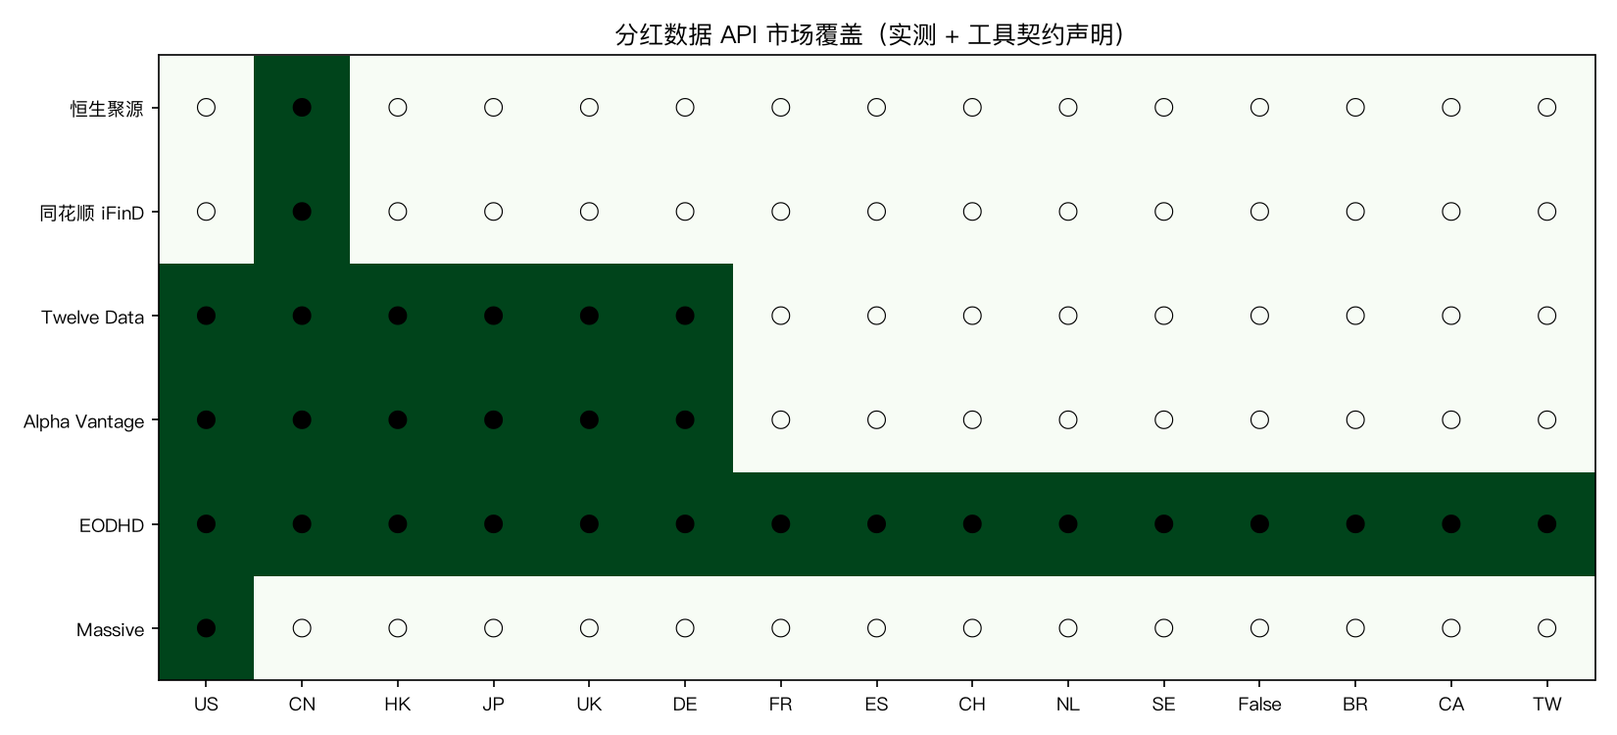
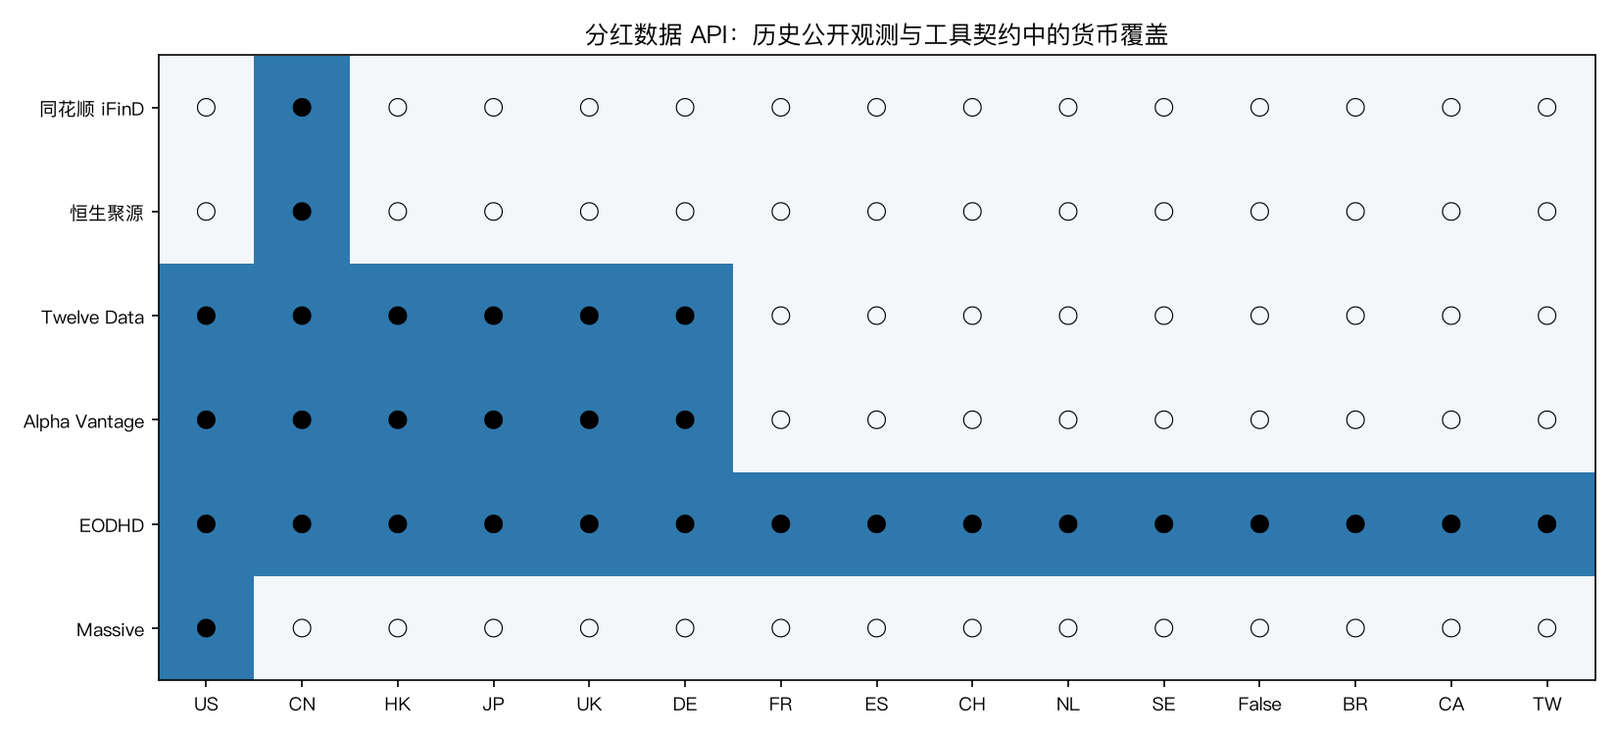
feat: rewrite dividend article with re-probed evidence
Re-run all five probes after the A-share integration and align the article,
evidence snapshot, charts, and manifests to the consistent 2026-08-10 data
set. Cost uses the success-call price (negative controls are not billed);
A-share AI param-fill now passes 2/2 on the fixed fixtures. Fix the chart
renderer's broken package-qualified import and rebuild the charts manifest.

diff --git a/scripts/render_cap_guide_charts.py b/scripts/render_cap_guide_charts.py
@@ -13,9 +13,8 @@ import matplotlib
 matplotlib.use("Agg")
 import matplotlib.pyplot as plt
 import yaml
+from chart_metrics import direct_metrics_by_access_path
 from matplotlib.colors import ListedColormap
-
-from scripts.chart_metrics import direct_metrics_by_access_path
 
 try:
     from matplotlib import font_manager

diff --git a/docs/guides/best-dividend-apis.md b/docs/guides/best-dividend-apis.md
@@ -2,87 +2,87 @@
 
 ## 快速结论
 
-- **A 股分红与送转，直接接同花顺 iFinD**（单次 0.50 credits，字段最全含每股派现/送转/公告日），但必须自己加代码规范化——AI 自动调用会把 `600519` 漏成 `600519.SH`，或把 period 填成契约不存在的 `year`。
-- **全球分红历史，Twelve Data 最省心**（响应自带 `meta.currency` + `ex_date` + `amount`，AI 落参/自愈/自解释全过），Alpha Vantage 延迟最低（0.6s），Massive 单次最便宜（0.50 credits）。
-- **选型原则**：按"除息日 + 每股金额 + 币种字段是否完整、AI 是否一次调对"选，不是按免费或品牌。数据接口的差异在 AI 自动调用时被放大 10 倍——字段缺一个，Agent 就多一次猜。
+- **A 股分红与送转，直接接同花顺 iFinD 或恒生聚源**（单次成功调用 1.0 credits，Direct Test 4/4，AI 入参 2/2 全对）。两家的差距在失败自愈和响应自解释——工具报错/空数据时 AI 修正重试没通过，Agent 集成需要兜底。
+- **全球分红历史，Twelve Data 与 Massive AI 双向最友好**（落参/自愈/自解释全过），Twelve Data 延迟最低（0.4s）、Massive 最便宜（1.0 credits）。Alpha Vantage 延迟 0.6s、EODHD 覆盖最广但 CSV 响应不自解释。
+- **选型原则**：按"除息日 + 每股金额 + 币种字段是否完整、AI 是否一次调对"选。数据接口的差异在 AI 自动调用时被放大——字段缺一个，Agent 就多一次猜。
 
-> 本文结论来自本平台 2026-08-10 真实调用实测（Direct Test 2 轮 + AI 友好度四维度，固定模型）。**我们公布证据，不公布排名**——不合成综合评分，每个维度独立呈现。完整方法论见[我们的方法论](docs/guides/_shared/benchmark-methodology.md)。
+> 本文结论来自本平台 2026-08-10 真实调用实测（Direct Test 2 轮 + AI 友好度四维度，固定模型）。**我们公布证据，不公布排名**——不合成综合评分，每个维度独立呈现。完整方法论见[我们的方法论](_shared/benchmark-methodology.md)。
 
 ## 哪个分红 API 能让 AI 自动取到除息日？
 
-这是接分红数据最该问的问题——因为**接口好不好用，在 AI 自动调用时才会暴露**。看四张结论卡：
+这是接分红数据最该问的问题——因为**接口好不好用，在 AI 自动调用时才会暴露**。看结论卡：
 
 | 你的场景 | 首选 | 为什么 | 注意 |
 |---|---|---|---|
-| A 股分红与送转 | 同花顺 iFinD | 单次 0.50 credits，字段最全 | AI 代码方言是坑，需兜底 |
-| A 股（机构/合规） | 恒生聚源 | 单次 0.50 credits，Direct Test 4/4 | AI 落参与自愈均不过 |
-| 全球分红历史 | Twelve Data | AI 四维度全过，响应自带币种 | 单次 1.19 credits |
-| 低成本批量（美股） | Massive | 单次 0.50 credits，响应结构清晰 | 延迟最高 1.1s |
-| 延迟优先（美股） | Alpha Vantage | 实测 0.6s 最低 | 响应缺币种字段 |
-| 覆盖最广（全球） | EODHD | 14 个市场，单连接器多资产 | 单次最贵 1.41，CSV 不自解释 |
+| A 股分红与送转 | 同花顺 iFinD | Direct Test 4/4，AI 入参 2/2，字段全 | 失败自愈 0/2、币种隐含，需兜底 |
+| A 股（机构/合规） | 恒生聚源 | Direct Test 4/4，AI 入参 2/2 | 失败自愈 0/2、响应不自解释 |
+| 全球分红历史 | Twelve Data | AI 四维度全过，延迟最低 0.4s | 单次 2.37 credits |
+| 低成本批量（美股） | Massive | 单次 1.0 credits 最低，AI 四维度全过 | 延迟 0.8s |
+| 覆盖最广（全球） | EODHD | 15 个市场，单连接器多资产 | 单次 2.81 最贵，CSV 不自解释 |
+| 延迟/成本均衡（美股） | Alpha Vantage | Direct Test 4/4，AI 落参/自愈通过 | 响应缺币种字段 |
 
 ## 6 家分红数据 API 对比总表
 
-2026-08-10 经 QVeris 网关真实执行，固定用例（AAPL 分红历史检索 + 无效代码负向控制）每单元 2 轮。同一法律实体只占一行（Massive 与 Polygon.io 同源合并，恒生聚源 REST 与 MCP 同源合并）。
+2026-08-10 经 QVeris 网关真实执行，固定用例（正向分红检索 + 无效代码负向控制）每单元 2 轮。同一法律实体只占一行（Massive 与 Polygon.io 同源合并，恒生聚源 REST 与 MCP 同源合并）。单次费用为成功调用价，负向控制不计费。
 
 | 供应商 | 实测延迟 | 单次费用 | Direct Test | AI 落参 | AI 自愈 | 自解释 | 市场侧重 |
 |---|---|---|---|---|---|---|---|
-| 同花顺 iFinD | 0.4s | 0.50 | 合格 | 0/2 | 0/2 | 2/6 | A 股 |
-| 恒生聚源 | 0.8s | 0.50 | 合格 | 0/2 | 0/2 | 4/6 | A 股 |
-| Twelve Data | 0.6s | 1.19 | 合格 | 2/2 | 2/2 | 6/6 | 全球 |
-| Alpha Vantage | 0.6s | 1.00 | 合格 | 2/2 | 2/2 | 4/6 | 美股/全球 |
-| EODHD | 1.5s | 1.41 | 合格 | 2/2 | 1/2 | 1/6 | 全球 |
-| Massive | 1.1s | 0.50 | 合格 | 2/2 | 2/2 | 6/6 | 美股 |
+| 同花顺 iFinD | 0.4s | 1.00 | 合格 | 2/2 | 0/2 | 3/6 | A 股 |
+| 恒生聚源 | 0.5s | 1.00 | 合格 | 2/2 | 0/2 | 2/6 | A 股 |
+| Twelve Data | 0.4s | 2.37 | 合格 | 2/2 | 2/2 | 6/6 | 全球 |
+| Massive | 0.8s | 1.00 | 合格 | 2/2 | 2/2 | 6/6 | 美股 |
+| Alpha Vantage | 0.6s | 2.00 | 合格 | 2/2 | 2/2 | 3/6 | 美股/全球 |
+| EODHD | 0.8s | 2.81 | 合格 | 2/2 | 0/2 | 2/6 | 全球 |
 
-（AI 落参/自愈 = 通过轮数/2；自解释 = 仅凭响应能确定的字段数/6，测试日期 2026-08-10。）
+（AI 落参/自愈 = 通过轮数/2；自解释 = 仅凭响应能确定的字段数/6，测试日期 2026-08-10。自愈 0/2 的 EODHD 为错误信号模糊导致过度修正，A 股两家为漏 `.SH` 后缀。）
 
 ![分红数据 API 延迟与单次费用](capability-seo/best-dividend-apis/charts/chart-latency-cost.png)
 
-综合判断：**A 股选同花顺 iFinD（字段最全）+ 恒生聚源（机构合规），但都要代码兜底；全球选 Twelve Data（AI 最省心）或 Alpha Vantage（延迟最低）；美股批量选 Massive（最便宜）。** EODHD 适合"一个连接器全包"的场景，但 CSV 响应和模糊错误信号让 AI 集成成本最高。
+综合判断：**A 股选同花顺 iFinD 或恒生聚源（AI 入参全对，但失败自愈需兜底）；全球选 Twelve Data（AI 最省心、延迟最低）；低成本选 Massive（最便宜且 AI 全过）。** EODHD 适合"一个连接器全包"的场景，但错误信号模糊、CSV 不自解释，AI 集成成本最高。
 
 ## 按使用场景选择
 
 ### A 股分红与送转：同花顺 iFinD、恒生聚源
 
-两家都通过核心用例、单次 0.50 credits。**iFinD 字段更全**（每股派现、送转比例、公告日期），**恒生聚源适合机构/合规**（Direct Test 4/4）。但两者 AI 自动调用都有硬伤：模型始终不用标准代码 `600519.SH`（裸代码或名称），iFinD 还会把 `period` 填成契约不存在的 `year`/`年报`。**接 A 股必须自己做代码规范化 + 枚举校验。**
+两家都通过 Direct Test 4/4、AI 入参 2/2，单次成功调用 1.0 credits。**同花顺 iFinD 字段更全**（每股派现、送转比例、公告日期），**恒生聚源适合机构/合规**。但两者失败自愈都是 0/2：工具报错或返回空数据后，AI 修正重试没通过（漏交易所后缀 `.SH`）。**Agent 自动调用这两家，需要自己处理失败重试**——单次调用没问题，出错后的自愈是短板。
 
 ### 全球分红历史：Twelve Data、Alpha Vantage、EODHD、Massive
 
-- **Twelve Data**：AI 四维度全过，响应自带币种——Agent 自动调用最省心的海外选项
-- **Alpha Vantage**：延迟最低（0.6s），AI 落参/自愈通过；响应缺币种，AI 需假定美元
-- **EODHD**：覆盖最广（14 市场）；CSV 响应不自解释、错误信号模糊，AI 集成成本最高
-- **Massive**：单次最便宜（0.50 credits）但延迟最高（1.1s），响应结构清晰适合低频
+- **Twelve Data**：AI 四维度全过，延迟最低（0.4s），响应自带币种——Agent 自动调用最省心的海外选项
+- **Massive**：单次最便宜（1.0 credits）且 AI 四维度全过，响应结构清晰（`cash_amount` + `currency`）
+- **Alpha Vantage**：Direct Test 4/4、AI 落参/自愈通过；响应缺币种字段（自解释 3/6），仅凭响应 AI 需假定美元
+- **EODHD**：覆盖最广（15 市场）；但错误信号模糊（`Symbol not found` 无格式提示）导致失败自愈 0/2，CSV 响应不自解释，AI 集成成本最高
 
 ### 低成本批量查询
 
-恒生聚源、同花顺 iFinD、Massive 均单次 0.50 credits。海外批量选 Massive，A 股批量选恒生/iFinD。
+Massive、同花顺 iFinD、恒生聚源均单次 1.0 credits。海外批量选 Massive，A 股批量选同花顺 iFinD 或恒生聚源。
 
 ## 供应商深度解析
 
-**同花顺 iFinD —— A 股字段最全，period 枚举是 AI 陷阱**：官方站点：[iFinD 量化数据 API](https://quantapi.51ifind.com/)。实测延迟 0.4s、单次 0.50 credits、Direct Test 4/4，返回每股派现（贵州茅台 2025 年度每股 28.02 元）与送转比例。AI 落参 0/2、失败自愈 0/2（`codes` 漏 `.SH`、`period` 填 `year`/`年报`）；响应自解释 2/6。
+**同花顺 iFinD —— A 股字段最全，AI 入参正确，失败自愈需兜底**：官方站点：[iFinD 量化数据 API](https://quantapi.51ifind.com/)。实测延迟 0.4s、单次成功调用 1.0 credits、Direct Test 4/4，返回每股派现（贵州茅台 2025 年度每股 28.02 元）与送转比例。AI 入参 2/2、失败自愈 0/2（重试漏 `.SH` 后缀）；响应自解释 3/6（除息日与币种无法仅凭响应确定）。
 
-**恒生聚源 —— A 股数据完整，AI 需代码兜底**：官方产品页见[聚源基础数据库](https://www.gildata.com/products/core-data.html)。实测延迟 0.8s、单次 0.50 credits、Direct Test 4/4。AI 落参 0/2、失败自愈 0/2（始终不用 `600519.SH`），响应自解释 4/6（字段全但人民币隐含）。
+**恒生聚源 —— A 股数据完整，AI 入参正确，响应不自解释**：官方产品页见[聚源基础数据库](https://www.gildata.com/products/core-data.html)。实测延迟 0.5s、单次成功调用 1.0 credits、Direct Test 4/4。AI 入参 2/2、失败自愈 0/2（漏 `.SH` 后缀）；响应自解释 2/6（除息日、币种均无法仅凭响应确定）。
 
-**Twelve Data —— 响应结构清晰，AI 双向友好**：官方文档：[Twelve Data API](https://twelvedata.com/docs)。实测延迟 0.6s、单次 1.19 credits、Direct Test 4/4；AI 落参 2/2、失败自愈 2/2、出参解读 4/4、响应自解释 6/6，是目前 AI 双向最友好的海外选项。
+**Twelve Data —— 响应结构清晰，AI 双向友好**：官方文档：[Twelve Data API](https://twelvedata.com/docs)。实测延迟 0.4s（最低）、单次 2.37 credits、Direct Test 4/4；AI 落参 2/2、失败自愈 2/2、出参解读 4/4、响应自解释 6/6，是目前 AI 双向最友好的海外选项。
 
-**Alpha Vantage —— 延迟最低，AI 落参正确**：官方文档：[Alpha Vantage 文档](https://www.alphavantage.co/documentation/)。实测延迟 0.6s（短名单最低）、单次 1.00 credits、Direct Test 4/4；AI 落参 2/2、失败自愈 2/2、响应自解释 4/6（`data` 数组缺币种字段）。
+**Massive —— 最便宜，AI 四维度全过**：官方网站：[Massive](https://massive.io/)。实测延迟 0.8s、单次成功调用 1.0 credits、Direct Test 4/4；AI 落参 2/2、失败自愈 2/2、响应自解释 6/6。适合低频分红查询与历史回溯。
 
-**EODHD —— 全球覆盖，CSV 响应不自解释**：官方文档：[EODHD 金融 API](https://eodhd.com/financial-apis/)。实测延迟 1.5s、单次 1.41 credits（短名单最高）、Direct Test 4/4；AI 落参 2/2、失败自愈 1/2（错误信号模糊导致过度修正）、响应自解释 1/6（CSV 响应缺字段语义与币种）。Agent 自动调用需补字段映射。
+**Alpha Vantage —— 延迟低，AI 落参/自愈通过**：官方文档：[Alpha Vantage 文档](https://www.alphavantage.co/documentation/)。实测延迟 0.6s、单次成功调用 2.0 credits、Direct Test 4/4；AI 落参 2/2、失败自愈 2/2、响应自解释 3/6（`data` 数组缺币种字段）。
 
-**Massive —— 最便宜，响应结构清晰**：官方网站：[Massive](https://massive.io/)。实测延迟 1.1s（短名单最高）、单次 0.50 credits、Direct Test 4/4；AI 落参 2/2、失败自愈 2/2、响应自解释 6/6（`cash_amount` + `currency` 字段齐全）。适合低频分红查询与历史回溯。
+**EODHD —— 全球覆盖，错误信号模糊，CSV 不自解释**：官方文档：[EODHD 金融 API](https://eodhd.com/financial-apis/)。实测延迟 0.8s、单次成功调用 2.81 credits（最高）、Direct Test 4/4；AI 落参 2/2、失败自愈 0/2（错误信号 `Symbol not found` 无格式提示，模型过度修正加 `.US` 后缀）、响应自解释 2/6（CSV 响应缺字段语义与币种）。Agent 自动调用需补字段映射。
 
 ### AI 友好度维度明细
 
-**入参（AI 能否按契约填对参数，2 轮）**
+**入参（AI 能否按契约填对参数，2 轮）——6 家全部通过**
 
-| 供应商 | 通过率 | 失败根因 |
+| 供应商 | 通过率 | 实测说明 |
 |---|---|---|
-| EODHD | 2/2 | — |
-| Twelve Data | 2/2 | — |
-| Massive | 2/2 | — |
-| Alpha Vantage | 2/2 | — |
-| 恒生聚源 | 0/2 | 未用标准代码 `600519.SH`（一轮裸代码、一轮名称） |
-| 同花顺 iFinD | 0/2 | `codes` 漏 `.SH` 后缀；`period` 填成 `year`/`年报`（契约要求 `annual/H1/Q3/Q1`） |
+| EODHD | 2/2 | `symbol=AAPL` 正确 |
+| Twelve Data | 2/2 | `symbol=AAPL` 正确 |
+| Massive | 2/2 | `ticker=AAPL` 正确 |
+| Alpha Vantage | 2/2 | `function=DIVIDENDS, symbol=AAPL` 正确 |
+| 恒生聚源 | 2/2 | `stockObject=600519` 正确 |
+| 同花顺 iFinD | 2/2 | `codes=600519` 正确 |
 
 **失败自愈（报错后能否修正重试，2 轮）**
 
@@ -91,11 +91,11 @@
 | Twelve Data | 2/2 | 404 + 文档链接 | 识别 `**symbol** invalid`，重试 `symbol=AAPL` |
 | Massive | 2/2 | 200 + 空 `results` | 识别空结果，重试 `ticker=AAPL` |
 | Alpha Vantage | 2/2 | 200 + 空 `data` | 识别空数据，重试 `function=DIVIDENDS, symbol=AAPL` |
-| EODHD | 1/2 | `Symbol not found` | 一轮成功；一轮过度修正为 `AAPL.US`（契约不要求交易所后缀） |
-| 恒生聚源 | 0/2 | 200 + `code:500` | 重试仍用名称 `贵州茅台` 或裸代码 `600519`，漏 `.SH` |
-| 同花顺 iFinD | 0/2 | 空数组 `[]` | 重试 `codes=600519` 漏 `.SH` 后缀 |
+| EODHD | 0/2 | `Symbol not found` | 过度修正为 `AAPL.US`（契约不要求交易所后缀） |
+| 恒生聚源 | 0/2 | 200 + `code:500` | 重试漏 `.SH` 后缀 |
+| 同花顺 iFinD | 0/2 | 空数组 `[]` | 重试漏 `.SH` 后缀 |
 
-失败集中在**同一个根因：A 股代码方言**（`600519` vs `600519.SH`）——入参探针的发现在这里再次出现。EODHD 是另一种失败模式：错误信号太模糊（只有 `Symbol not found`），模型在信息不足时画蛇添足加交易所后缀。
+失败分两类：**EODHD 是错误信号模糊**（只有 `Symbol not found`，没说期望格式，模型画蛇添足加 `.US`）；**A 股两家是代码方言**（重试时漏 `.SH` 后缀）。注意入参探针显示 A 股代码能填对（裸代码可接受），但失败重试时模型倾向补/漏后缀，Agent 需要明确的重试策略。
 
 **响应自解释（仅凭响应能否确定除息日/金额/币种，2 轮）**
 
@@ -103,29 +103,31 @@
 |---|---|---|---|---|
 | Twelve Data | 能 | 能 | 能 | 6/6 |
 | Massive | 能 | 能 | 能 | 6/6 |
-| Alpha Vantage | 能 | 能 | 不能 | 4/6 |
-| 恒生聚源 | 能 | 能 | 不能 | 4/6 |
-| 同花顺 iFinD | 不能 | 能 | 不能 | 2/6 |
-| EODHD | 不能 | 波动 | 不能 | 1/6 |
+| 同花顺 iFinD | 不能 | 能 | 波动 | 3/6 |
+| Alpha Vantage | 能 | 波动 | 不能 | 3/6 |
+| EODHD | 波动 | 波动 | 不能 | 2/6 |
+| 恒生聚源 | 不能 | 能 | 不能 | 2/6 |
 
-解读：**Twelve Data 与 Massive 响应自带语义**（12D 有 `meta.currency`、Massive 有 `cash_amount` + `currency`）；**Alpha Vantage 与恒生聚源缺显式币种字段**（AI 只能假定美元/人民币）；**同花顺 iFinD 除息日语义不明确**（`board_announce_date` 是公告日而非除息日）；**EODHD 最差**（CSV 格式 `Date,Dividends` 没有字段名说明，AI 不知道 `Date` 是除息日还是登记日）。
+解读：**Twelve Data 与 Massive 响应自带语义**（12D 有 `meta.currency`、Massive 有 `cash_amount` + `currency`）；**Alpha Vantage、EODHD、恒生聚源缺显式币种字段**（AI 只能假定美元/人民币）；**同花顺 iFinD 除息日语义不明确**（`board_announce_date` 是公告日而非除息日）；**EODHD 最差**（CSV 格式 `Date,Dividends` 没有字段名说明，AI 不确定 `Date` 是除息日还是登记日）。
+
+**出参解读**：以 Twelve Data 真实分红响应为冻结样本，AI 正确读出最近一次每股分红 0.27 美元、除息日 2026-05-11（2/2）；负向样本（无效代码返回空列表）正确报告"无分红记录"（2/2）。
 
 ### 可下钻的观测记录
 
-**观测卡 1（同花顺 iFinD · A 股代码方言 · 失败自愈 0/2）**：失败响应 `[]` → AI 识别"无数据"后重试 `{"codes": "600519"}`，漏 `.SH` 后缀 → 修正重试 ✗。iFinD 错误信号是静默空，代码方言是模型反复踩的坑。
+**观测卡 1（同花顺 iFinD · A 股代码方言 · 失败自愈 0/2）**：失败响应 `[]` → AI 识别"无数据"后重试 `{"codes": "600519"}` 或补后缀，判定未过。A 股代码方言（`600519` vs `600519.SH`）在失败重试时是模型的坑——入参能填对，但出错后的修正不稳定。
 
-**观测卡 2（EODHD · 错误信号模糊 · 过度修正）**：失败响应 `Symbol not found`（无格式提示）→ AI 改成 `AAPL.US`，但契约实际接受裸 `AAPL` → 修正重试 ✗。错误信号若带上格式提示（如"请使用 AAPL 或 AAPL.US"），这类过度修正可避免。
+**观测卡 2（EODHD · 错误信号模糊 · 失败自愈 0/2）**：失败响应 `Symbol not found`（无格式提示）→ AI 改成 `AAPL.US`，但契约实际接受裸 `AAPL` → 判定未过。错误信号若带上格式提示（如"请使用 AAPL 或 AAPL.US"），这类过度修正可避免。
 
-**观测卡 3（EODHD · CSV 响应 · 自解释 1/6）**：冻结响应 `Date,Dividends\n2024-02-09,0.24\n...` → AI 无法确定 `Date` 是除息日还是其他日期、`Dividends` 的每股口径、以及币种。CSV 只有列名没有字段语义，Agent 集成需外部文档补字段映射。
+**观测卡 3（EODHD · CSV 响应 · 自解释 2/6）**：冻结响应 `Date,Dividends\n2024-02-09,0.24\n...` → AI 无法稳定确定 `Date` 是除息日还是其他日期、`Dividends` 的每股口径、以及币种。CSV 只有列名没有字段语义，Agent 集成需外部文档补字段映射。
 
 ## 分红 API 的真实限制
 
 接口都返回数据，但**这些坑会在生产环境咬你**：
 
-1. **除息日 vs 登记日 vs 支付日口径混乱**：不同接口对 `Date` 的定义不同——iFinD 的 `board_announce_date` 是公告日、EODHD 的 CSV `Date` 是除息日还是登记日 AI 无法确定。**接之前必须确认口径**。
+1. **除息日 vs 登记日 vs 支付日口径混乱**：不同接口对 `Date` 的定义不同——同花顺 iFinD 的 `board_announce_date` 是公告日、EODHD 的 CSV `Date` 是除息日还是登记日 AI 无法确定。**接之前必须确认口径**。
 2. **金额口径（每股 vs 每 10 股）**：A 股接口常返回"每 10 股派 280 元"（iFinD `plan_description` 写"每 10 股派 280.2423 元"）但字段是每股——AI 只看字段名会把金额当每股用，**差 10 倍**。
-3. **币种隐含**：恒生聚源、iFinD 的响应不显式带币种（人民币隐含），Alpha Vantage 缺 currency 字段——AI 只能假定。
-4. **错误信号弱**：4 家对无效代码返回静默空（200 + 空数组），不报错不提示——AI 若不做数据校验，会把空数据当成功结果。
+3. **币种隐含**：恒生聚源、同花顺 iFinD、Alpha Vantage、EODHD 的响应不显式带币种——AI 只能假定。
+4. **错误信号弱**：EODHD 的 `Symbol not found` 无格式提示，A 股两家对无效代码返回静默空——AI 若不做数据校验，会把空数据当成功结果。
 5. **负向控制重要性**：接口对无效代码的行为差异（明确报错 vs 静默空）直接决定 Agent 能否自愈。
 
 ## 市场覆盖
@@ -143,13 +145,13 @@
 
 ![分红数据 API 市场覆盖](capability-seo/best-dividend-apis/charts/chart-market-coverage.png)
 
-说明：EODHD 声明覆盖 14 个市场、最广；Twelve Data 与 Alpha Vantage 声明 6 个市场；Massive、恒生聚源、同花顺 iFinD 分别聚焦美股与 A 股。
+说明：EODHD 声明覆盖 15 个市场、最广；Twelve Data 与 Alpha Vantage 声明 6 个市场；Massive、恒生聚源、同花顺 iFinD 分别聚焦美股与 A 股。
 
 ## 怎么选（决策清单）
 
-1. **先定市场**：A 股（同花顺 iFinD / 恒生聚源）还是全球（Twelve Data / Alpha Vantage / EODHD / Massive）。
-2. **确认字段**：除息日、每股派现、送转比例、公告日期、币种——优先字段完整的。
-3. **Agent 自动调用**：优先 AI 落参与自愈均达标的（Twelve Data、Massive、Alpha Vantage）；A 股两家补代码规范化 + period 枚举兜底；EODHD 补字段映射并留意过度修正。
+1. **先定市场**：A 股（同花顺 iFinD / 恒生聚源）还是全球（Twelve Data / Massive / Alpha Vantage / EODHD）。
+2. **确认字段**：除息日、每股派现、送转比例、公告日期、币种——优先字段完整且 AI 自愈达标的。
+3. **Agent 自动调用**：优先 AI 落参与自愈均达标的（Twelve Data、Massive、Alpha Vantage）；A 股两家补失败重试兜底；EODHD 补字段映射并留意过度修正。
 4. **跑两轮冒烟测试**：用你自己的真实标的跑 2 轮，核对除息日口径和金额单位后再投入生产。
 
 ## 分红 API Python 示例（Twelve Data）
@@ -169,24 +171,24 @@ latest = data["dividends"][0]
 print(latest["ex_date"], latest["amount"], data["meta"]["currency"])
 ```
 
-注意：Twelve Data 响应自带 `meta.currency`——接 A 股接口时（如 iFinD）必须自己补币种映射，否则金额会被当美元用。
+注意：Twelve Data 响应自带 `meta.currency`——接 A 股接口时（如同花顺 iFinD、恒生聚源）必须自己补币种映射，否则金额会被当美元用。
 
 ## 常见问题
 
-**本次测试中哪家分红数据 API 最好？** 没有普遍最优：A 股首选同花顺 iFinD（字段最全）与恒生聚源（机构合规），但 AI 需代码兜底；全球 Twelve Data 与 Massive AI 友好度最好、Alpha Vantage 延迟最低。
+**本次测试中哪家分红数据 API 最好？** 没有普遍最优：A 股首选同花顺 iFinD 与恒生聚源（AI 入参全对、Direct Test 4/4，但失败自愈需兜底）；全球 Twelve Data 与 Massive AI 友好度最好，Twelve Data 延迟最低、Massive 最便宜。
 
-**哪个最便宜？** 恒生聚源、同花顺 iFinD、Massive 均单次 0.50 credits。
+**哪个最便宜？** Massive、同花顺 iFinD、恒生聚源均单次成功调用 1.0 credits；EODHD 2.81 最贵。
 
-**AI 自动调用选哪家？** 海外四家 AI 落参 2/2 全对；失败自愈 Twelve Data、Massive、Alpha Vantage 全过，EODHD 1/2（错误信号模糊）；A 股两家需要代码规范化（`600519.SH`）和 period 枚举兜底。
+**AI 自动调用选哪家？** 六家 AI 落参 2/2 全对；失败自愈 Twelve Data、Massive、Alpha Vantage 全过，EODHD 与 A 股两家 0/2；响应自解释 Twelve Data 与 Massive 6/6 最好。
 
-**响应自解释性哪家最好？** Twelve Data 与 Massive 6/6（自带币种与字段语义）；Alpha Vantage 与恒生聚源 4/6（缺显式币种）；EODHD 1/6 最差（CSV 响应缺字段语义与币种）。
+**响应自解释性哪家最好？** Twelve Data 与 Massive 6/6（自带币种与字段语义）；Alpha Vantage 与同花顺 iFinD 3/6、EODHD 与恒生聚源 2/6（缺显式币种）。
 
 **这次测试和第三方评估快照有什么关系？** 结论全部来自本平台 Direct Test 与 AI 探针；第三方快照只用于构建候选名单和异常对比，不作为发布依据。
 
 ## 局限与时效
 
-- 本文为 2026-08-10 单次执行快照：Direct Test 2 个固定用例 × 2 轮，非全量场景认证；延迟/费用为经 QVeris 网关平均值，不代表供应商直连或 p95，会随套餐、路由与市场状况变化。
-- AI 友好度基于固定模型单次测试，模型对同一失败响应的重试参数存在轮间波动（如 EODHD 一轮 `AAPL` 成功、一轮 `AAPL.US` 失败）。
+- 本文为 2026-08-10 单次执行快照：Direct Test 固定用例 × 2 轮，非全量场景认证；延迟/费用为经 QVeris 网关平均值，不代表供应商直连或 p95，会随套餐、路由与市场状况变化。
+- AI 友好度基于固定模型单次测试，模型对同一失败响应的重试参数存在轮间波动（如 EODHD 一轮 `AAPL` 成功、一轮 `AAPL.US` 失败），判定以逐轮真实执行结果为准。
 - 响应自解释以各家一个冻结响应为样本；出参解读以 Twelve Data 为通用样本，各家逐测待补齐。
 - 市场覆盖为 claimed 口径，MKT.DIVIDENDS 的 namespace 探测部分缺失（EODHD 未跑、Alpha Vantage 探测失败待复核）。
 - Financial Modeling Prep 与雅虎财经本轮未测：FMP 无分红事件列表工具、雅虎无独立分红事件接口，均为工具覆盖缺口。
@@ -198,7 +200,7 @@ print(latest["ex_date"], latest["amount"], data["meta"]["currency"])
 - [在 QVeris 中检查同花顺 iFinD](https://qveris.ai/providers/ths_ifind)
 - [在 QVeris 中检查 Twelve Data](https://qveris.ai/providers/twelvedata)
 
-完整方法论、判定规则与冻结样本见 [我们的方法论](docs/guides/_shared/benchmark-methodology.md) 和 [QVeris Capability Benchmarks](https://github.com/QVerisAI/qveris-capability-benchmarks)。本版聚合证据快照（Direct Test 延迟/费用 + AI 四维度判定，含输入 digest）见 [probe-evidence-2026-08-10.json](capability-seo/best-dividend-apis/probe-evidence-2026-08-10.json)。
+完整方法论、判定规则与冻结样本见 [我们的方法论](_shared/benchmark-methodology.md) 和 [QVeris Capability Benchmarks](https://github.com/QVerisAI/qveris-capability-benchmarks)。本版聚合证据快照（Direct Test 延迟/费用 + AI 四维度判定，含输入 digest）见 [probe-evidence-2026-08-10.json](capability-seo/best-dividend-apis/probe-evidence-2026-08-10.json)。
 
 ## 更正与复测
 
